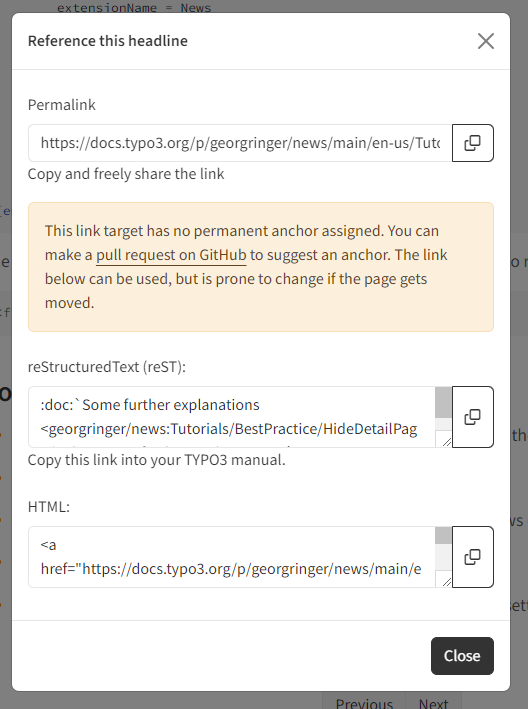
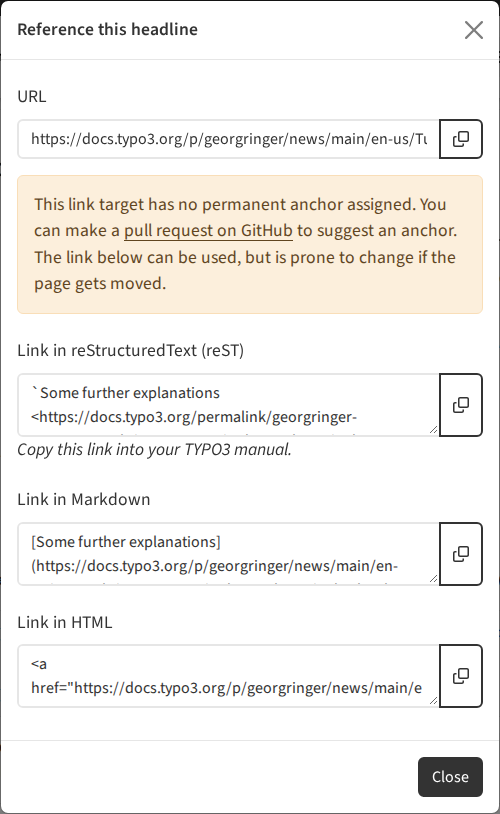
[TASK] Recommend permalinks for links to TYPO3 documentation (#602)
* [TASK] Recommend permalinks for links to TYPO3 documentation

The page on links to TYPO3 documentation explained reST references
first and mentioned permalinks only at the end. The page on external
links even advised against URLs for TYPO3 documentation. Permalinks
are the preferred way: they can be opened from the source, they work
outside reST, and the rendering turns them into direct links. The page
now starts with permalinks, keeps reST references as an alternative,
and recommends an anchor and a permalink over a :doc: link.

Since render-guides 0.42.0, the rendering warns about permalinks that
docs.typo3.org cannot resolve. The page no longer claims that such
permalinks pass make test-docs.

Related: https://github.com/TYPO3-Documentation/render-guides/issues/1402
Assisted-by: Claude Opus 5.5 <noreply@anthropic.com>

* [TASK] Update the screenshots of the link modal

The link modal on docs.typo3.org has changed. It offers the permalink,
the URL, and links in reST, Markdown, and HTML, and the link in reST is
now a permalink. It no longer offers a reST reference. The screenshots
and the text now show the current modal.

For a headline without an anchor, the modal offers a link in reST that
points to a file path. The permalink route of docs.typo3.org does not
resolve it and returns 404. The page now advises against that link and
recommends adding an anchor.

Assisted-by: Claude Opus 5.5 <noreply@anthropic.com>

* [TASK] Recommend permalinks inside the same manual
[…]

diff --git a/Documentation/Reference/ReStructuredText/Links/Documentation.rst b/Documentation/Reference/ReStructuredText/Links/Documentation.rst
@@ -1,37 +1,159 @@
-:navigation-title: Documentation references
+:navigation-title: Documentation links
 ..  include:: /Includes.rst.txt
 
 ..  _rest-ref:
 ..  _intersphinx:
 
-=================================
-References to TYPO3 documentation
+============================
+Links to TYPO3 documentation
+============================
+
+You can link the following elements in any TYPO3 manual: headlines,
+:ref:`confvals <rest-confval>`, and
+:ref:`PHP domain definitions <rest-phpdomain>`.
+You can also put an :ref:`anchor <link-targets-explanation>` almost anywhere
+and link to it.
+
+There are two ways to write such a link:
+
+*   A :ref:`permalink <permalinks>`, written as a normal link with a URL. This
+    is the preferred way, also for links inside the same manual.
+*   A :ref:`reST reference <rest-ref-role>` with the :rst:`:ref:` text role.
+
+Both ways point to an anchor, not to a file. The link keeps working when the
+section moves to another page or its headline is renamed.
+
+..  contents:: Table of contents
+    :local:
+
+..  _link-modal:
+
+Copy the link from the link modal
 =================================
 
-You can link the following elements in any TYPO3 manual: Headlines,
-:ref:`confvals <rest-confval>` and :ref:`phpdomain definitions <rest-phpdomain>`.
-It is also possible to put an anchor almost anywhere and then link it.
-
-When an element in a manual can be linked a link symbol will appear when you
-hover it:
+When you hover over an element that can be linked, a link icon appears:
 
 ..  figure:: /_Images/link-headlines.png
 
     Hover over a headline to see if it is linkable, then click the link icon
 
-After you click the link icon you can copy the reST link from the modal that
-appears:
+Click the link icon. A modal opens that offers the following for this
+element:
+
+*   The permalink itself.
+*   The current URL of the element.
+*   A link in reST, a link in Markdown, and a link in HTML. The reST and the
+    Markdown link use the permalink.
 
 ..  figure:: /_Images/link-headlines-box.png
 
-    Copy the reST reference
+    Copy the link in reStructuredText (reST)
 
-The reST code of the reference looks like this:
+Copy the link from this modal rather than assembling it by hand. Do not copy
+the URL from the address bar of your browser, or the URL from the modal: it
+contains the version and the path of the page, and it breaks when the page is
+moved.
+
+The link in reST from the modal looks like this:
 
 ..  code-block:: rst
-    :caption: Reference from another manual
+    :caption: Link copied from the link modal
 
-    :ref:`Hide detail page in URL <georgringer/news:hideDetailPage>`
+    `Hide detail page in URL <https://docs.typo3.org/permalink/georgringer-news:hidedetailpage>`_
+
+Reword the link text to fit your sentence, see
+:ref:`Always give a link text <link-text>`.
+
+..  _permalinks:
+
+Permalinks
+==========
+
+A permalink is a plain URL on docs.typo3.org. It names the manual and the
+anchor of the element, and it redirects to the current location of the
+element in the `main` version of the manual. Use it like any other
+:ref:`external link <external-links>`:
+
+..  code-block:: rst
+    :caption: A permalink in reST
+
+    Tag the entries with
+    `cache tags <https://docs.typo3.org/permalink/t3coreapi:caching-developer-cache-tags>`_
+    so that they can be flushed together.
+
+A permalink has the following syntax:
+
+..  code-block:: plaintext
+    :caption: Syntax of a permalink
+
+    https://docs.typo3.org/permalink/[interlink]:[anchor]
+
+Permalinks are the preferred way to link TYPO3 documentation, for the
+following reasons:
+
+*   You can open a permalink directly from the source file, in an editor, a
+    diff, or a review. You do not have to render the manual first to see
+    where the link goes.
+*   The same link works in reST, in Markdown, in a commit message, in an
+    issue, and in a chat.
+
+..  _permalinks-same-manual:
+
+Permalinks inside the same manual
+---------------------------------
+
+Use permalinks for links inside your own manual as well. Write them with
+the interlink shortcode of your manual, which is set with
+`interlink-shortcode <https://docs.typo3.org/permalink/h2document:settings-guides-interlink-shortcode>`_
+in :file:`Documentation/guides.xml`:
+
+..  code-block:: rst
+    :caption: A permalink from this guide to a page of this guide
+
+    Every headline needs an
+    `anchor <https://docs.typo3.org/permalink/h2document:link-targets-explanation>`_.
+
+The rendering turns such a permalink into a link to the page in the rendered
+manual, also in a local render with :bash:`make docs`.
+
+..  _permalinks-rules:
+
+Rules for permalinks
+--------------------
+
+If you write or change a permalink by hand, follow these three rules:
+
+#.  **The interlink shortcode is required.** It is needed even when the anchor
+    lives in the manual you are writing in:
+    `permalink/t3coreapi:dependency-injection` resolves,
+    `permalink/dependency-injection` does not.
+
+#.  **The manual is written with hyphens, not slashes.** This is where a
+    permalink differs from a reST reference: :rst:`:ref:` uses
+    `friendsoftypo3/content-blocks:`, the permalink uses
+    `friendsoftypo3-content-blocks:`.
+
+#.  **Underscores in an anchor become hyphens.** The anchor
+    `..  _run_upgrade_wizard:` is published as `run-upgrade-wizard`, so only
+    `permalink/t3coreapi:run-upgrade-wizard` resolves.
+
+The rendered page links to the right target even if you break one of these
+rules. The URL in the source file, however, returns 404 for everyone who opens
+it from there. Since render-guides 0.42.0, the rendering warns about all three
+mistakes, so :bash:`make test-docs` fails on them. See
+`render-guides issue #1402 <https://github.com/TYPO3-Documentation/render-guides/issues/1402>`_.
+
+..  _rest-ref-role:
+
+reST references
+===============
+
+A reST reference uses the :rst:`:ref:` text role:
+
+..  code-block:: rst
+    :caption: Reference to another manual
+
+    To keep news URLs short, :ref:`hide the detail page <georgringer/news:hideDetailPage>`.
 
 A reference has the following syntax:
 
@@ -40,91 +162,64 @@ A reference has the following syntax:
 
     :ref:`[link_text] <[interlink]:[anchor]>`
 
-If you are linking within the same manual you can omit the `[interlink]:` part,
-including the colon.
+If you link within the same manual, you can omit the `[interlink]:` part,
+including the colon:
 
 ..  code-block:: rst
-    :caption: Reference from inside the same manual
+    :caption: Reference inside the same manual
 
-    :ref:`Hide detail page in URL <hideDetailPage>`
+    To keep news URLs short, :ref:`hide the detail page <hideDetailPage>`.
 
-If there is a warning box displayed, that the link has no anchor, you can
-still link to it using a doc-reference:
+The link modal does not offer a reST reference. Many manuals contain reST
+references. They keep working, and you do not have to replace them with
+permalinks.
+
+..  _rest-doc-role:
+
+Headlines without an anchor
+===========================
+
+If a headline has no anchor, the modal shows a warning and offers no
+permalink:
 
 ..  figure:: /_Images/link-headlines-box-warning.png
 
     Linking to a headline without an anchor
 
-The link then looks like this in reST:
+Do not use the links from the modal in this case. They point to a file and a
+headline, not to an anchor:
 
-..  code-block:: rst
+*   The link in reST points to a file path, which the permalink route of
+    docs.typo3.org does not resolve. It returns 404 when it is opened from
+    the source.
+*   The other links break when the section is moved to another page, and
+    they can point to the wrong section when another section with the same
+    headline is added.
 
-    :doc:`Some further explanations <georgringer/news:Tutorials/BestPractice/HideDetailPage/Index#some-further-explanations>`
+Add a unique anchor to the headline instead, and link to that anchor with a
+permalink. See section :ref:`Link anchors <link-targets-explanation>`.
 
-However such a link would not work anymore if the section was moved to another
-page or if another section with the same headline was introduced.
-
-We suggest adding a unique link anchor to the headline to be linked to in this
-case. See section :ref:`Link anchors <link-targets-explanation>`.
-
-..  _permalinks:
-
-Permalinks
-==========
-
-The same modal also offers a permalink: a plain URL that resolves to the
-current location of the element.
-
-..  code-block:: rst
-    :caption: A permalink used as an external link
-
-    `Cache tags <https://docs.typo3.org/permalink/t3coreapi:caching-developer-cache-tags>`_
-
-Permalinks are the preferred way to link TYPO3 documentation. Unlike a reST
-reference, a permalink can be opened directly from the source file — in an
-editor, a diff or a review — without rendering the manual first, and it works
-outside reST as well, for example in a commit message or an issue.
-
-Copy permalinks from the modal rather than assembling them by hand. A permalink
-follows three rules that are easy to get wrong:
-
-#.  **The interlink shortcode is required.** It is needed even when the anchor
-    lives in the manual you are writing in:
-    `permalink/t3coreapi:dependency-injection` resolves,
-    `permalink/dependency-injection` does not.
-
-#.  **The manual is written with hyphens, not slashes.** This is where a
-    permalink differs from the reST reference above: :rst:`:ref:` uses
-    `friendsoftypo3/content-blocks:`, the permalink uses
-    `friendsoftypo3-content-blocks:`.
-
-#.  **Underscores in an anchor become hyphens.** The anchor
-    `..  _run_upgrade_wizard:` is published as `run-upgrade-wizard`, so only
-    `permalink/t3coreapi:run-upgrade-wizard` resolves.
-
-..  warning::
-    A wrong permalink can render without any warning and still return 404 for
-    readers. Rendering resolves the URL against the anchors it holds in memory,
-    while docs.typo3.org resolves it against the published inventory, in which
-    the keys are normalized. All three mistakes above therefore pass a
-    :bash:`make test-docs` run. See
-    `render-guides issue #1402 <https://github.com/TYPO3-Documentation/render-guides/issues/1402>`_.
+A :rst:`:doc:` link to a page and a headline, such as
+``:doc:`Some further explanations <georgringer/news:Tutorials/BestPractice/HideDetailPage/Index#some-further-explanations>```,
+has the same problems.
 
 ..  _link-text:
 
 Always give a link text
 =======================
 
-Give every reference and every permalink its own link text, written to fit
+Give every permalink and every reference its own link text, written to fit
 the sentence it appears in:
 
 ..  code-block:: rst
 
-    To keep news URLs short, :ref:`hide the detail page <georgringer/news:hideDetailPage>`.
-
     Tag the entries with
     `cache tags <https://docs.typo3.org/permalink/t3coreapi:caching-developer-cache-tags>`_
     so that they can be flushed together.
+
+    To keep news URLs short, :ref:`hide the detail page <georgringer/news:hideDetailPage>`.
+
+A permalink without a link text shows the bare URL.
 
 A reference without a link text, such as
 ``:ref:`georgringer/news:hideDetailPage```, uses the headline of the
@@ -139,11 +234,8 @@ target section instead. This causes two problems:
     link can then stop fitting your sentence, or stop saying what you meant,
     without anybody touching your page.
 
-A permalink without a link text is worse: it shows the bare URL.
-
-The reST reference you copy from the link modal uses the headline of the
-target as its link text. Reword that text to fit your sentence before you
-use it.
+The link modal uses the headline of the target as the link text. Reword that
+text to fit your sentence before you use it.
 
 ..  _check-link-text:
 

diff --git a/AGENTS.md b/AGENTS.md
@@ -25,8 +25,11 @@ CONTRIBUTING.rst                 # how to contribute (issues, branching, PRs)
    backtick; see `Documentation/Reference/ReStructuredText/Code/InlineCode.rst`.
 5. **Every headline needs a `..  _anchor:` target** directly above it; see
    `Documentation/Reference/ReStructuredText/Links/Anchors.rst`.
-6. **Every reference needs its own link text** — `:ref:`text <anchor>``, never
-   `:ref:`anchor``; see
+6. **Link TYPO3 documentation with permalinks**, also inside the same
+   manual: `` `link text <https://docs.typo3.org/permalink/<interlink>:<anchor>>`_ ``.
+   Do not suggest replacing a permalink with `:ref:`; existing `:ref:`
+   links can stay. Every link needs its own link text, never
+   `` :ref:`anchor` ``. See
    `Documentation/Reference/ReStructuredText/Links/Documentation.rst`.
 7. **Validate before committing** — run `make test-docs`.
 8. **Never commit or push without being asked.**

diff --git a/Documentation/Basics/RstCheatSheet.rst b/Documentation/Basics/RstCheatSheet.rst
@@ -55,9 +55,9 @@ They then look like this:
 
     `ReST Cheat sheet <https://docs.typo3.org/permalink/h2document:rest-cheat-sheet>`_
 
-Permalinks are resolved during rendering, but not every broken one is
-reported: see :ref:`Permalinks <permalinks>` for the three rules a
-hand-written permalink has to follow.
+Permalinks are the preferred way to link TYPO3 documentation. See
+:ref:`Permalinks <permalinks>` for the three rules a hand-written permalink
+has to follow.
 
 External links can be copied into the document they will be auto detected. Or
 the standard reST Syntax can be used:

diff --git a/Documentation/Reference/ReStructuredText/Links/ExternalLinks.rst b/Documentation/Reference/ReStructuredText/Links/ExternalLinks.rst
@@ -8,12 +8,11 @@
 External links
 ==============
 
-..  important::
+..  tip::
 
-    Do not use this mechanism (external links) for links to sections of
-    the TYPO3. Use references as described in the section above:
-    :ref:`References to TYPO3 manuals <rest-reference>`.
-
+    To link TYPO3 documentation, use a permalink with this syntax rather than
+    the URL from the address bar of your browser. See
+    :ref:`Permalinks <permalinks>`.
 
 An URL that is mentioned within a text is automatically linked:
 

diff --git a/Documentation/Reference/ReStructuredText/Links/Index.rst b/Documentation/Reference/ReStructuredText/Links/Index.rst
@@ -9,8 +9,11 @@ Links in ReStructured text
 
 
 In reStructuredText (reST) there are multiple methods to define links to
-different targets. The following chapter describe those most commonly used in
+different targets. The following pages describe those most commonly used in
 TYPO3 documentation.
+
+To link TYPO3 documentation, prefer a
+:ref:`permalink <permalinks>`, also inside the same manual.
 
 ..  toctree::
     :glob:
